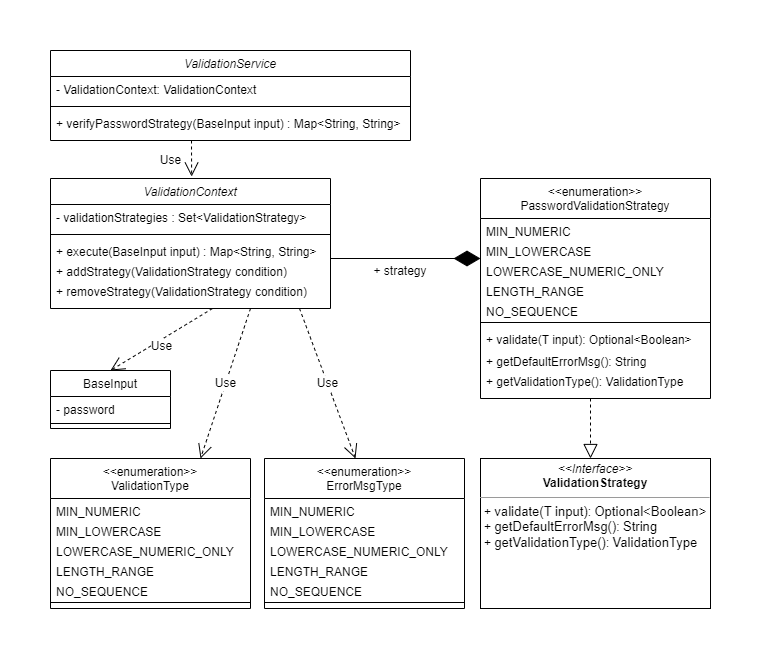
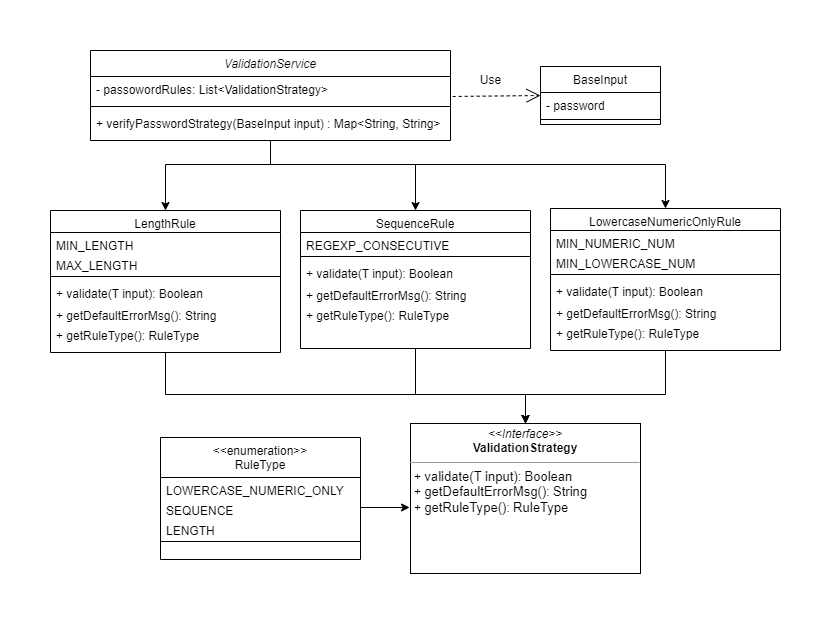
change validation structure picture on README file

diff --git a/README.md b/README.md
@@ -8,7 +8,7 @@ I try to create with the usual **Class way** of implementation.
 
 The structure is presented in the picture below.
 
-![image](./src/main/resources/images/ValidationStructure.png)
+![image](./src/main/resources/images/Validation_Structure.png)
 
 The several Rules object implements interface ValidationStrategy, 
 and each rule will override with 3 methods to do the customized job in the validation process. 
